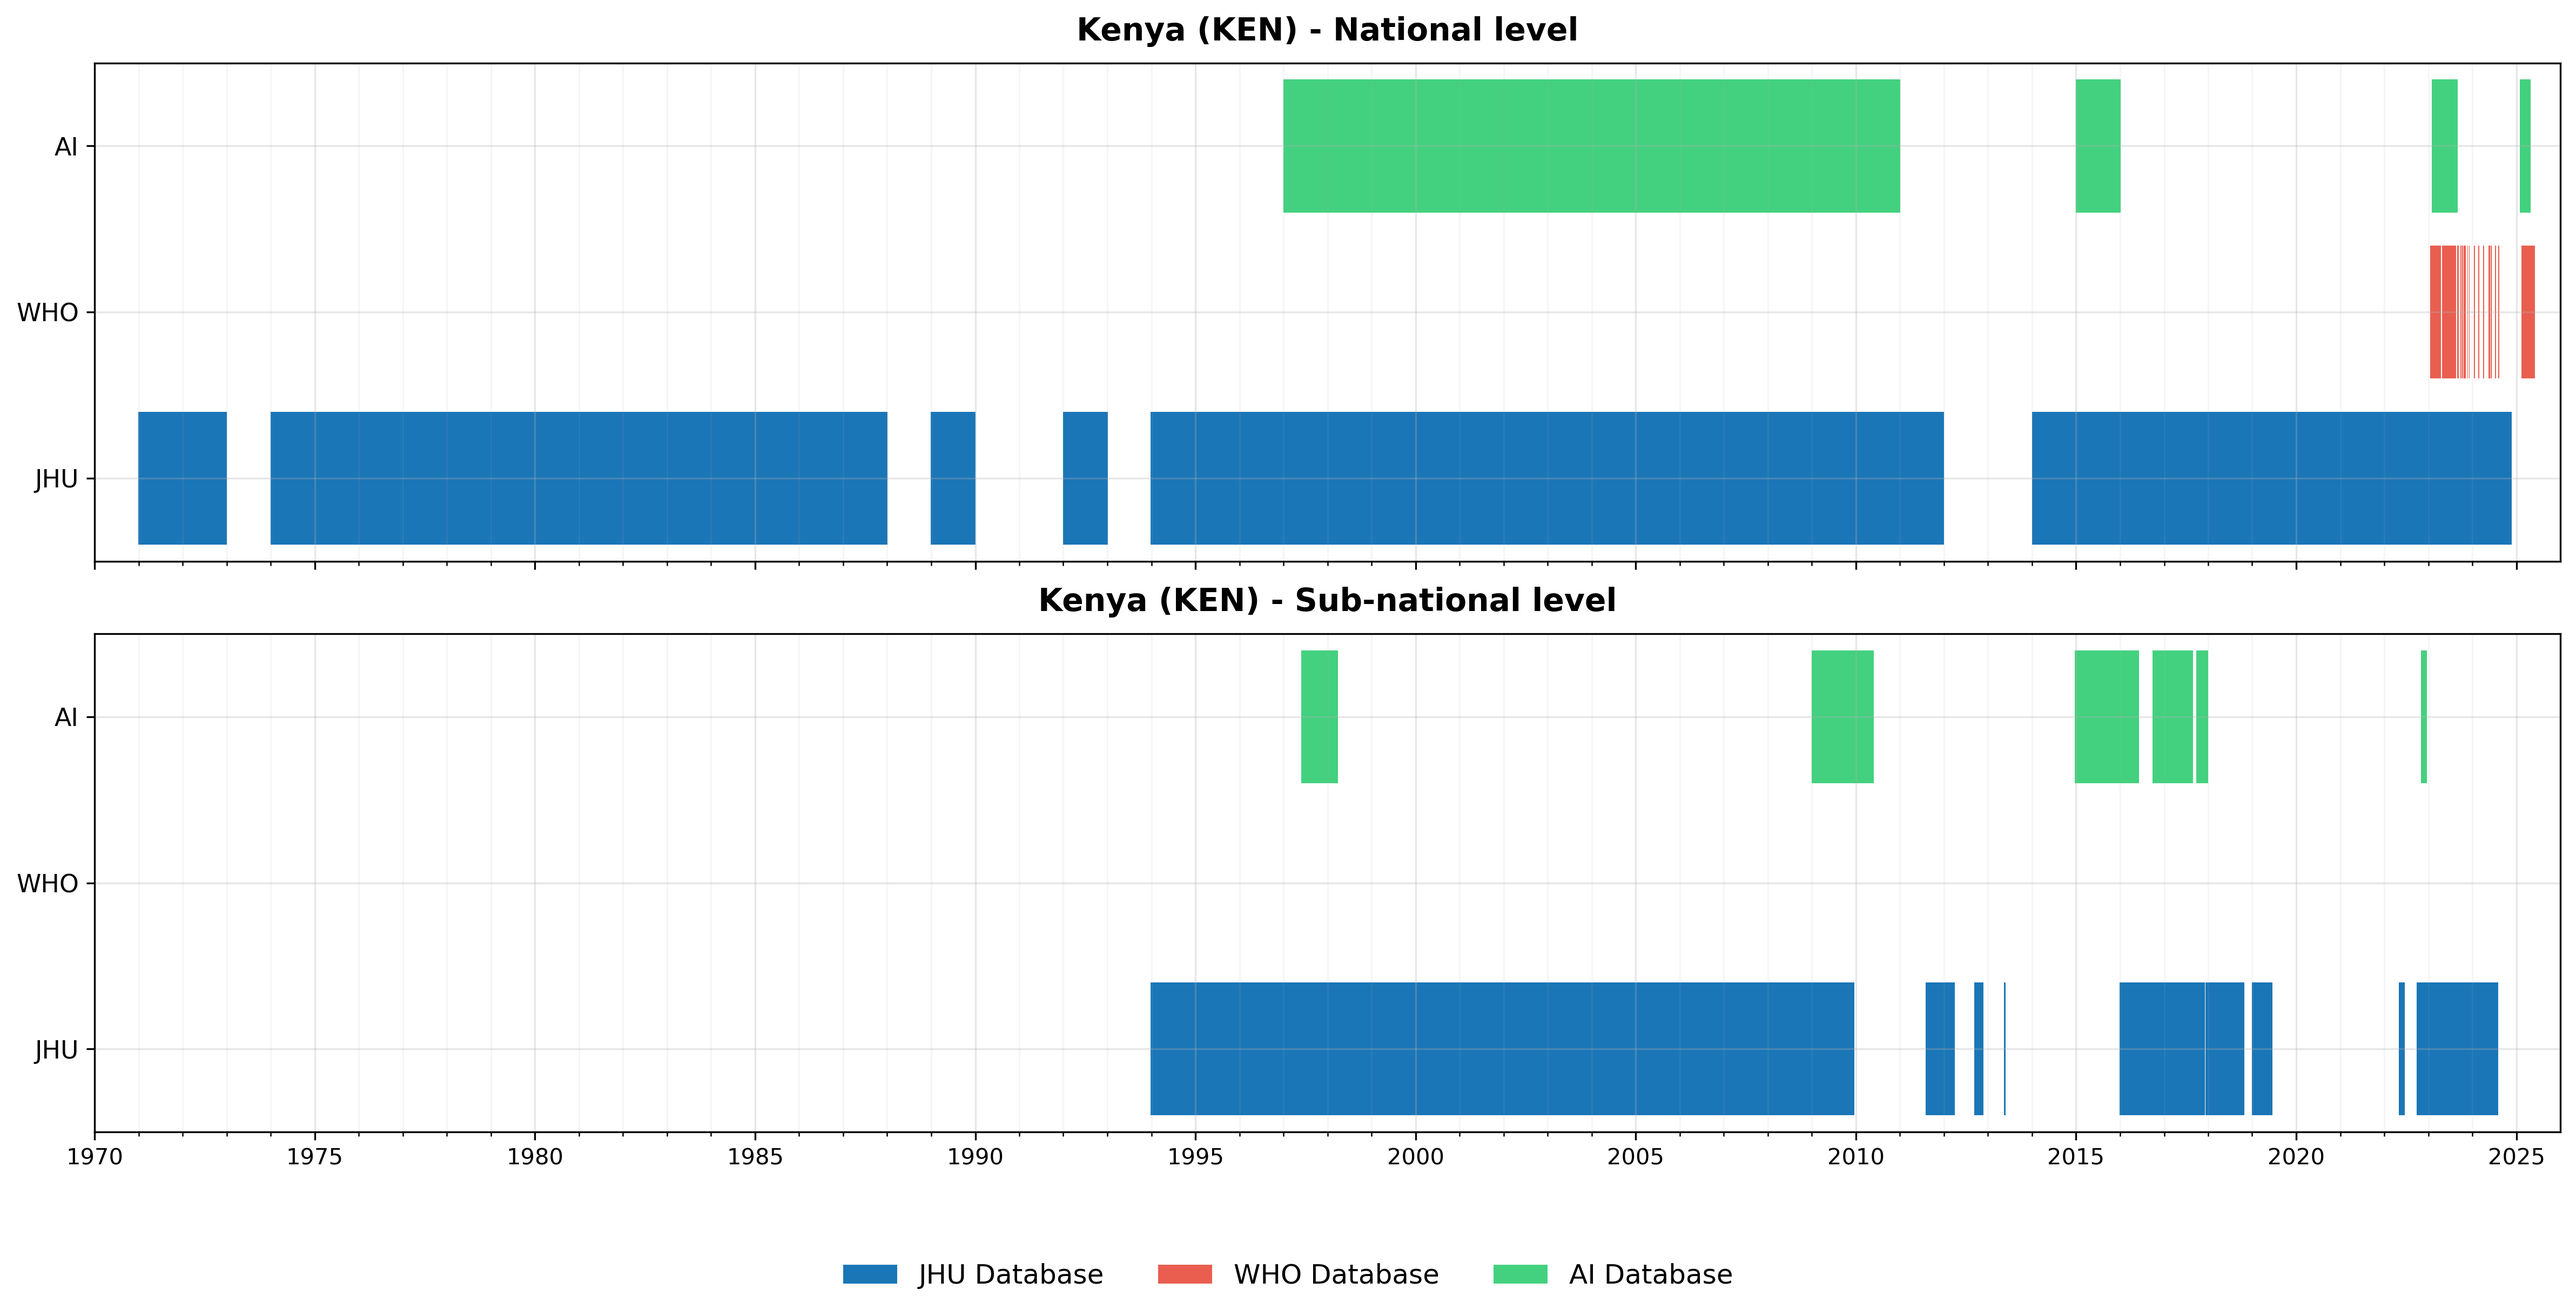
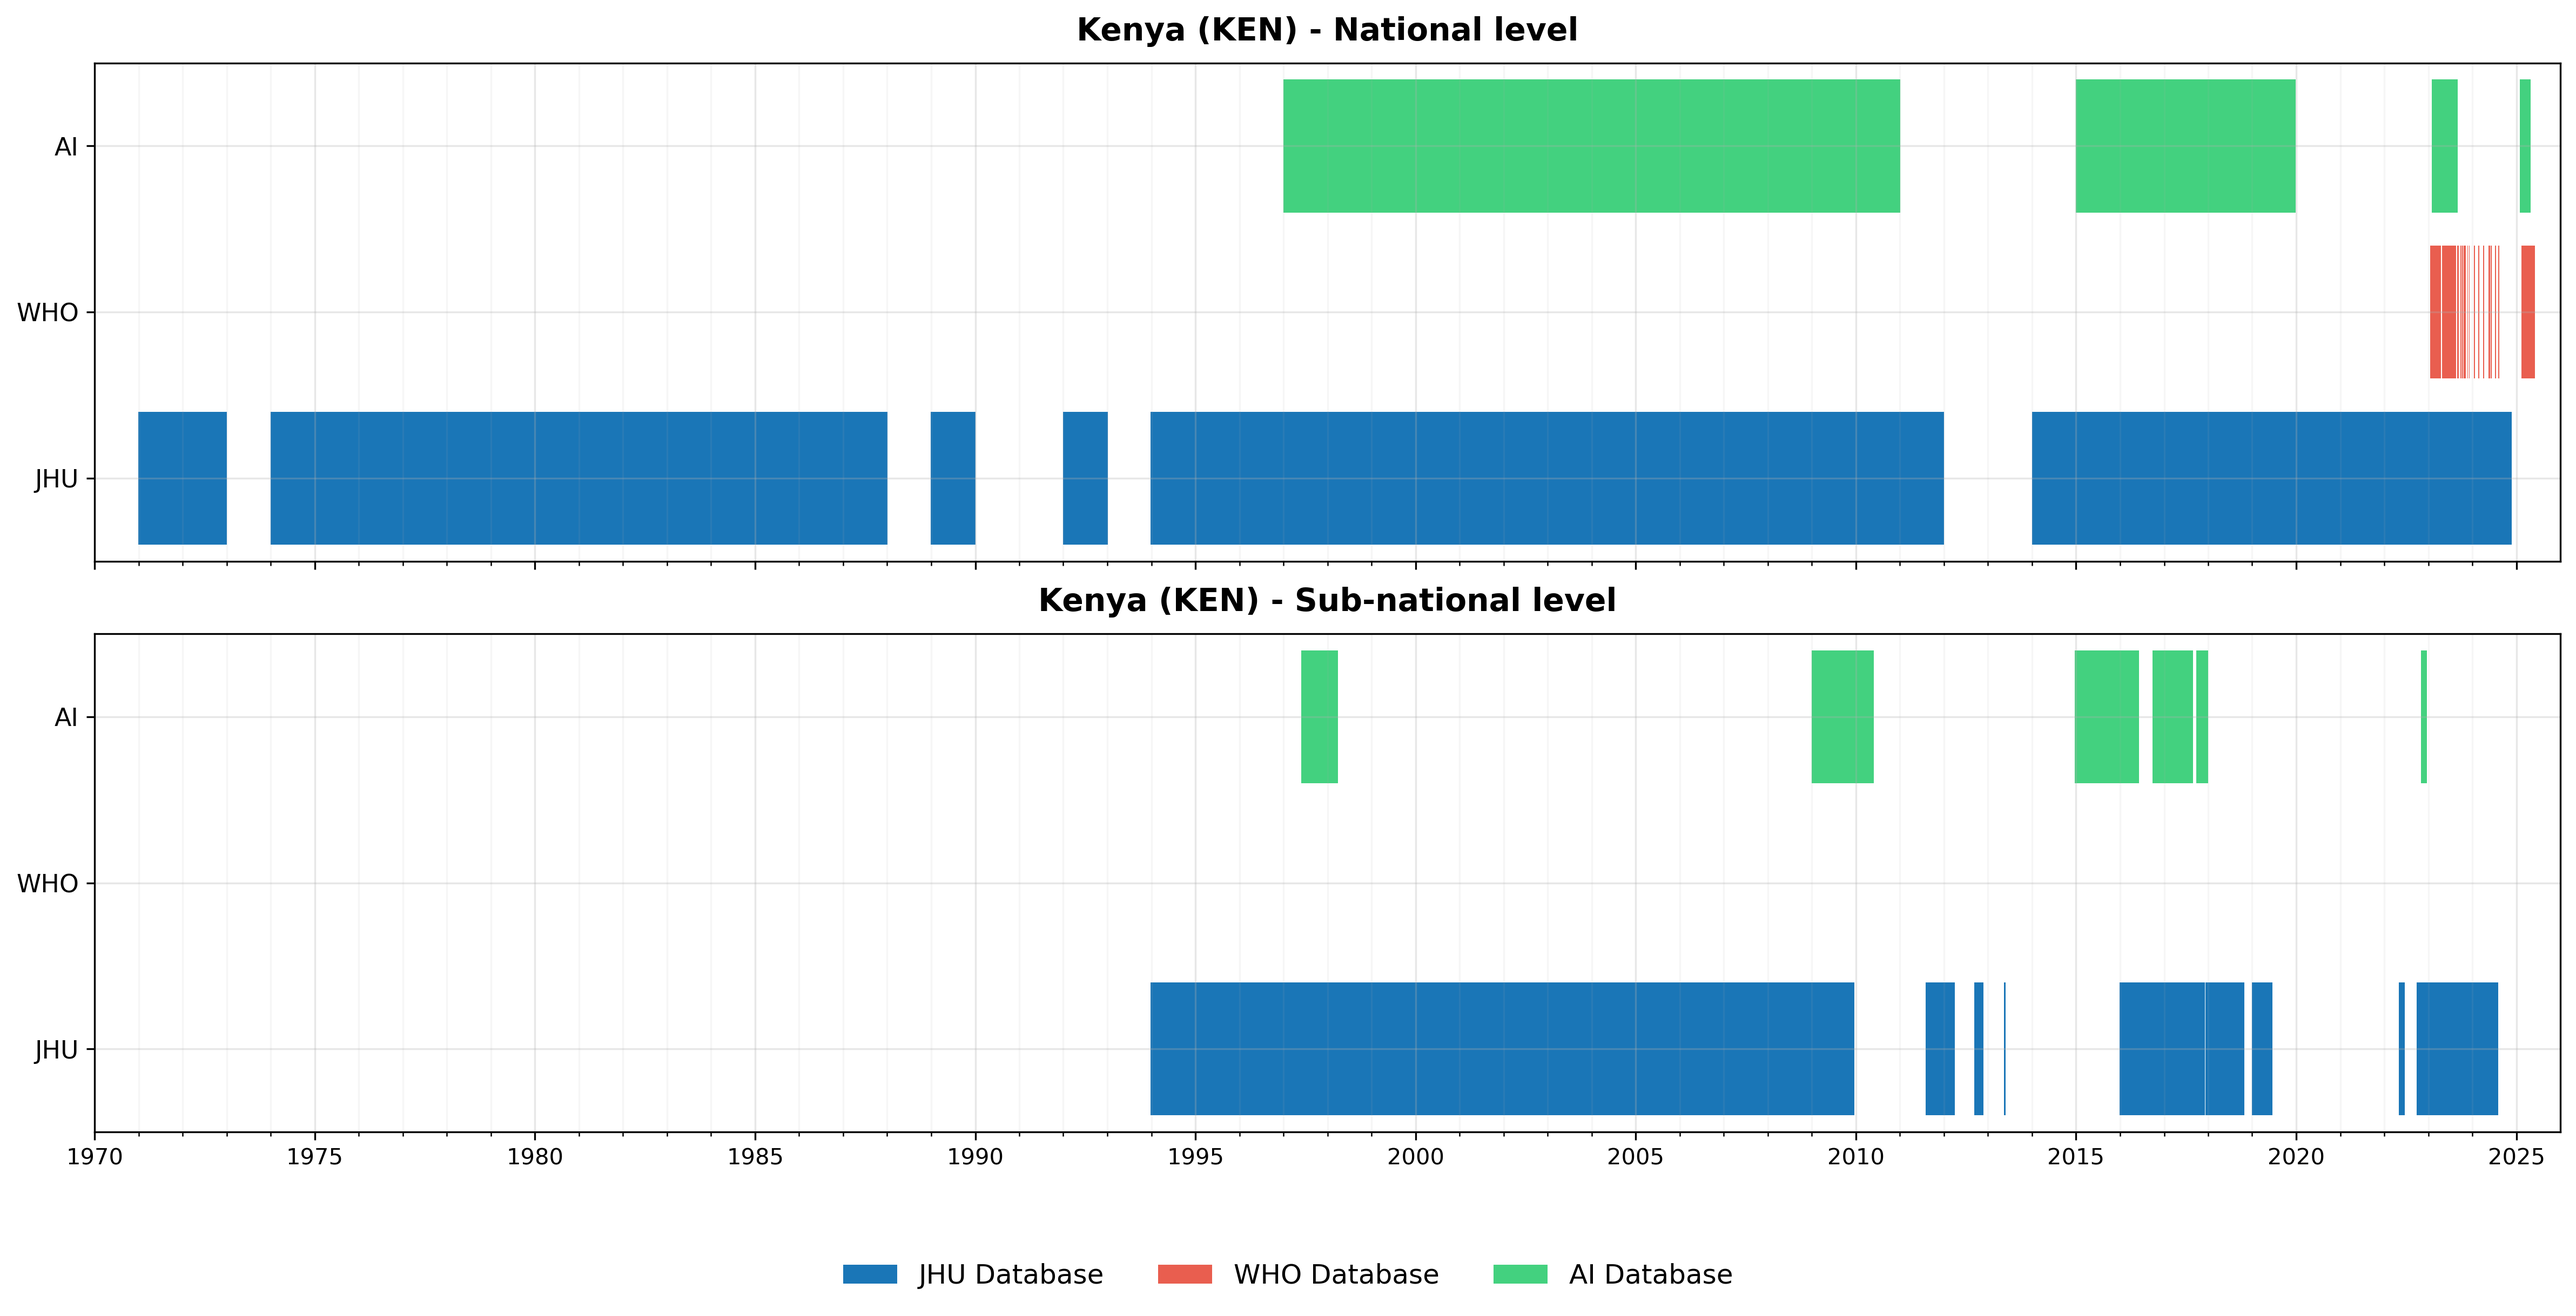
Auto-update dashboard data - 2025-08-06 14:55:33 - Generated with Claude Code

Changed region(s): [[0.8123, 0.0623, 0.9061, 0.187]]

diff --git a/dashboard/dashboard.html b/dashboard/dashboard.html
@@ -2626,7 +2626,7 @@ Guinea,GIN,NOT_STARTED,,0,0,,,0,0,
 Gambia,GMB,NOT_STARTED,,0,0,,,0,0,
 Guinea-Bissau,GNB,NOT_STARTED,,0,0,,,0,0,
 Equatorial Guinea,GNQ,NOT_STARTED,,0,0,,,0,0,
-Kenya,KEN,PENDING,2025-08-06 14:52:19,22,44,1971-2030,LOW,1,5,980.0
+Kenya,KEN,PENDING,2025-08-06 14:53:31,22,45,1971-2030,LOW,1,5,980.0
 Liberia,LBR,NOT_STARTED,,0,0,,,0,0,
 Mali,MLI,NOT_STARTED,,0,0,,,0,0,
 Mozambique,MOZ,NOT_STARTED,,0,0,,,0,0,
@@ -2757,7 +2757,8 @@ Zimbabwe,ZWE,NOT_STARTED,,0,0,,,0,0,`;
 19,Kenya County Situation Report June 2015,https://reliefweb.int/report/kenya/cholera-situation-report-kenya-9th-june-2015,Comprehensive county-level breakdown with cases and deaths,2015,Situation_Report,Active,Level_2,Validated,Humanitarian_Report,English,1,ReliefWeb_MoH,Geographic_Expansion,AI
 20,Kenya Regional Molecular Epidemiology 2009-2010,https://pmc.ncbi.nlm.nih.gov/articles/PMC3358164/,Regional breakdown of 2009-2010 cholera outbreak with 52 districts affected,2009-2010,Regional_Analysis,Active,Level_1,Validated,Academic_Research,English,1,PMC_Journal,Geographic_Expansion,AI
 21,Dadaab Refugee Camp Detailed Outbreak 2015-2017,https://www.cdc.gov/mmwr/volumes/67/wr/mm6734a4.htm,Sub-camp level cholera data for Dadaab with attack rates and CFR,2015-2017,Camp_Outbreak,Active,Level_1,Validated,CDC_MMWR,English,1,CDC_Report,Geographic_Expansion,AI
-22,Kenya 2003 Zero Cholera Transmission Year,https://idpjournal.biomedcentral.com/articles/10.1186/2049-9957-3-37,BMC study confirms zero cholera cases reported in 2003,2003,Zero_Transmission,Active,Level_1,Validated,Academic_Surveillance,English,1,BMC_Journal,Zero_Transmission_Validation,AI`
+22,Kenya 2003 Zero Cholera Transmission Year,https://idpjournal.biomedcentral.com/articles/10.1186/2049-9957-3-37,BMC study confirms zero cholera cases reported in 2003,2003,Zero_Transmission,Active,Level_1,Validated,Academic_Surveillance,English,1,BMC_Journal,Zero_Transmission_Validation,AI
+23,Kenya National Cholera Plan 2015-2019 Data,https://pmc.ncbi.nlm.nih.gov/articles/PMC10058159/,Comprehensive surveillance data from national elimination plan,2015-2019,National_Surveillance,Active,Level_1,Validated,National_Plan_Data,English,1,PMC_Journal,Cross_Reference_Integration,AI`
         };
         
         // Embedded cholera data from CSV files
